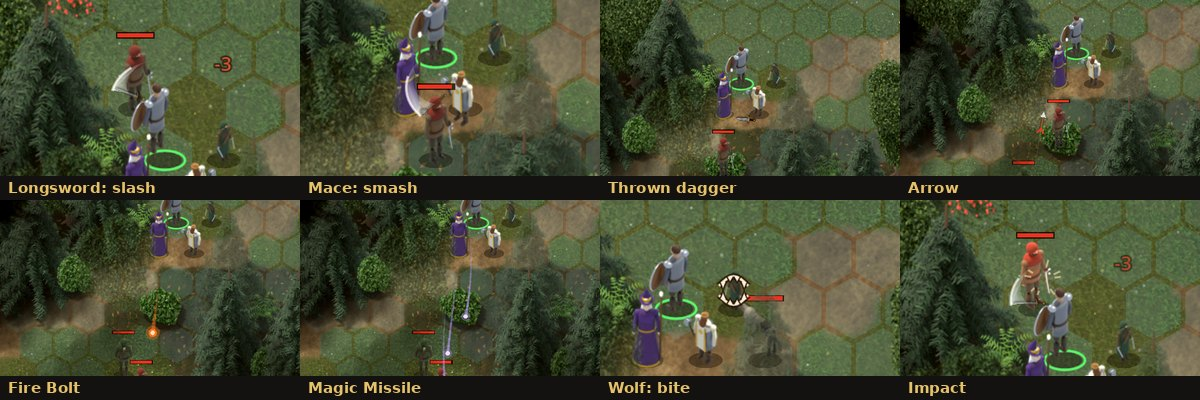
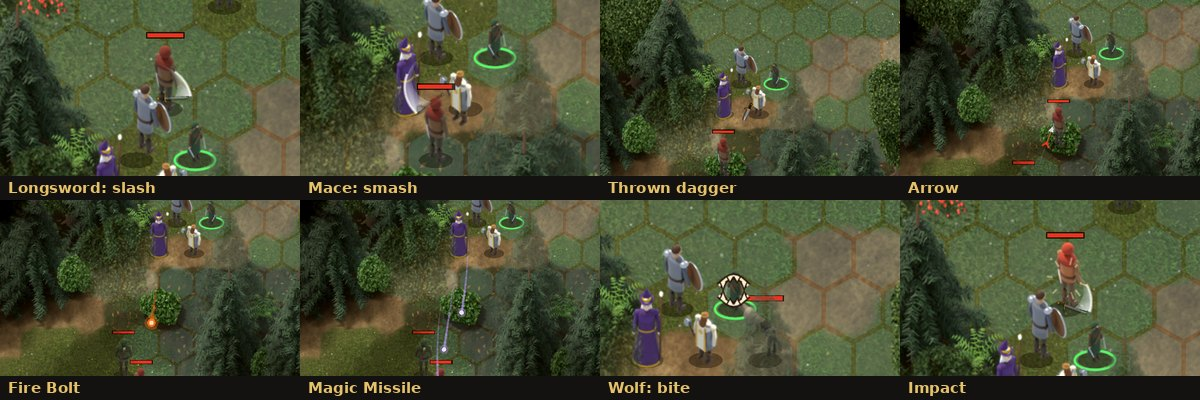
Effects GIFs: re-record with the caster's rise, one shared palette per GIF
The Magic Missile GIF now shows Elowen rising as the darts leave (the
rise was cancelled in the same frame before the fix in 2aed0ec), and
fx_gifs.py picks one 256-colour palette from a sample of frames so the
robes and darts keep their colours.

Claude-Session: https://claude.ai/code/session_01MmCMxbZ4ZZuqPpSB5dWoe1

diff --git a/tools/capture/fx_gifs.py b/tools/capture/fx_gifs.py
@@ -22,11 +22,19 @@ OUT = ROOT / "docs" / "images"
 
 def gif(name, out, stop, width=420, step=2, ms=40, hold=700):
     files = sorted(glob.glob(str(FRAMES / f"{name}_*.png")))[:stop:step]
-    frames = []
+    rgb = []
     for f in files:
         im = Image.open(f).convert("RGB")
-        frames.append(im.resize((width, int(im.height * width / im.width)), Image.LANCZOS)
-                      .quantize(colors=128, method=Image.Quantize.MEDIANCUT, dither=Image.Dither.NONE))
+        rgb.append(im.resize((width, int(im.height * width / im.width)), Image.LANCZOS))
+    # One palette for every frame, chosen from a sample of them side by side, so
+    # colours stay true and don't shift from frame to frame (a palette per frame
+    # loses small bright things like the darts, and greys out the robes).
+    sample = rgb[:: max(1, len(rgb) // 8)]
+    board = Image.new("RGB", (width * len(sample), rgb[0].height))
+    for k, im in enumerate(sample):
+        board.paste(im, (k * width, 0))
+    palette = board.quantize(colors=256, method=Image.Quantize.MEDIANCUT)
+    frames = [im.quantize(palette=palette, dither=Image.Dither.FLOYDSTEINBERG) for im in rgb]
     durations = [ms] * len(frames)
     durations[-1] = hold
     frames[0].save(out, save_all=True, append_images=frames[1:], duration=durations, loop=0, optimize=True)
